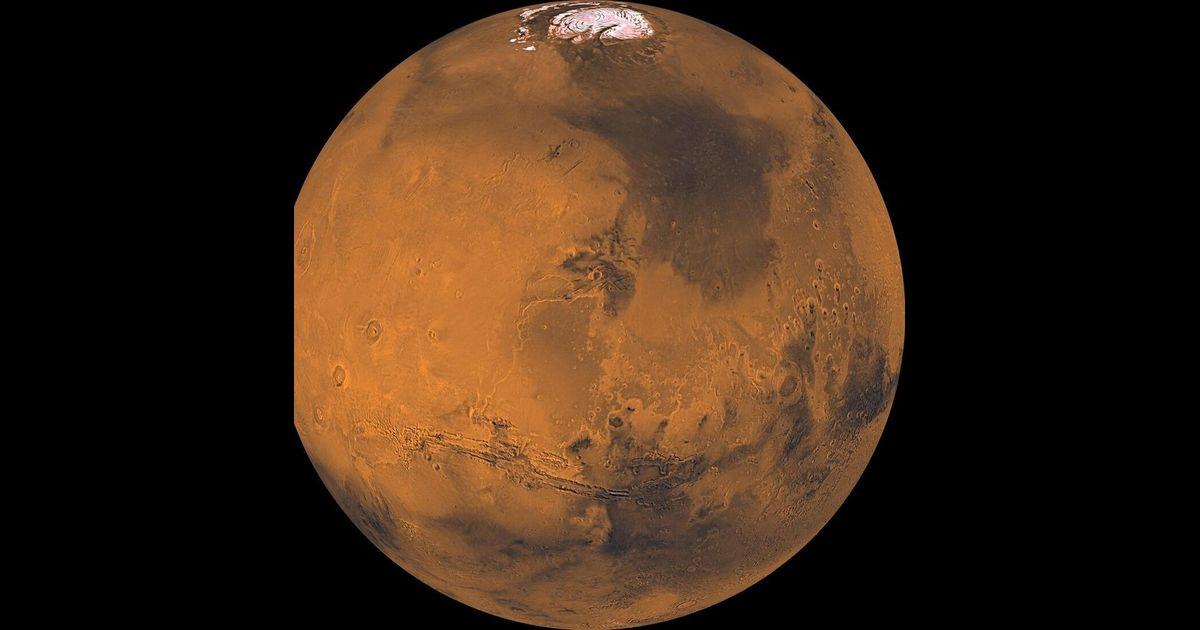
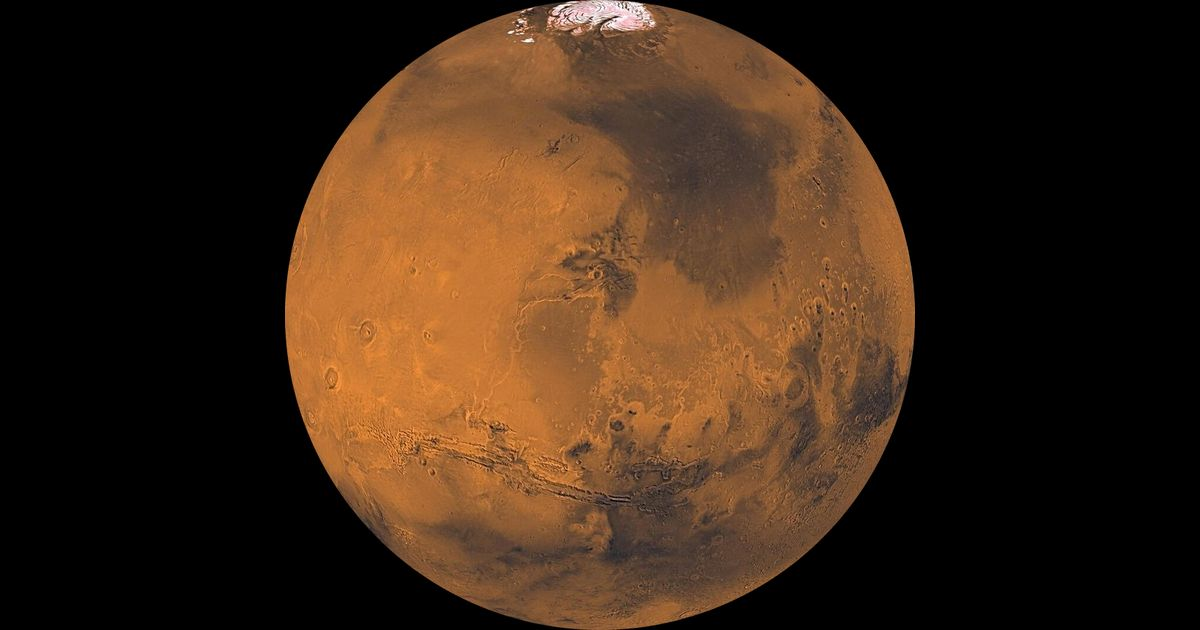
Fix fresh QA points: phone targets on /worlds, one dark time for Tonight and the sky map, Orion Nebula in search
- /worlds on phones: each name and moon line is 24 px tall, so every link meets the WCAG 2.2 target size
- Tonight on the homepage now uses the same moment of darkness as /sky, so the two give the same time
- /sky: Forget my place stays hidden when nothing is saved; (now) no longer wraps on its own
- /learn: scale labels alternate between two rows so they never run together
- Search finds the Orion Nebula; /explore/list gives it as roughly 1,300 light years
- Sitemap dates for the legal pages follow their text
- Mars share image: the globe is trimmed to a full circle instead of flat sides

Claude-Session: https://claude.ai/code/session_01Sn3b4ap1oktEvjC7ZUceLS

diff --git a/src/lib/sky/tonight.ts b/src/lib/sky/tonight.ts
@@ -1,8 +1,8 @@
 /**
  * "Tonight" for the home page: the Moon's phase and which planets can be seen by eye this evening,
  * worked out with the same sums as the sky map (place.ts, moon.ts), so the two always agree.
- * The evening is now if it is already dark, or else the first moment today when the Sun is 6 degrees
- * below the horizon (civil dusk, when the brightest planets show).
+ * The evening is now if it is already dark (the Sun 9 degrees or more below the horizon), or else the first
+ * moment the Sun is 12 degrees below it: the moment the sky map opens at, so the two give the same time.
  */
 import { moment, toSky, sunFromEarth, planetFromEarth, moonSky, PLANETS } from './place';
 import { moonPlace } from './moon';
@@ -33,11 +33,11 @@ export function phaseName(lit: number, waxing: boolean): string {
 export function tonight(date: Date, latDeg: number, lonDeg: number): Tonight {
   const sunAlt = (d: Date) => { const m = moment(d, latDeg, lonDeg); return toSky(sunFromEarth(m.T), m).altDeg; };
   let at = date, now = true, noDark = false;
-  if (sunAlt(date) > -6) {
+  if (sunAlt(date) >= -9) {
     now = false; noDark = true;
-    for (let mins = 10; mins <= 24 * 60; mins += 10) {
+    for (let mins = 5; mins <= 24 * 60; mins += 5) {
       const d = new Date(date.getTime() + mins * 60000);
-      if (sunAlt(d) <= -6) { at = d; noDark = false; break; }
+      if (sunAlt(d) < -12) { at = d; noDark = false; break; }
     }
     if (noDark) at = date;
   }
@@ -51,7 +51,7 @@ export function tonight(date: Date, latDeg: number, lonDeg: number): Tonight {
   const moonAlt = (d: Date) => moonSky(moment(d, latDeg, lonDeg)).altDeg;
   const cross = (up: boolean): Date | null => {
     let prev = moonAlt(at);
-    for (let mins = 10; mins <= 24 * 60; mins += 10) {
+    for (let mins = 5; mins <= 24 * 60; mins += 5) {
       const d = new Date(at.getTime() + mins * 60000), a = moonAlt(d);
       if (up ? prev <= 0 && a > 0 : prev > 0 && a <= 0) {
         for (let back = 9; back >= 0; back--) { const e = new Date(d.getTime() - back * 60000); const b = moonAlt(e); if (up ? b > 0 : b <= 0) return e; }

diff --git a/src/lib/search.test.ts b/src/lib/search.test.ts
@@ -22,6 +22,7 @@ for (const [typed, want] of [['proxima centuri', 'Proxima'], ['ursa magor', 'Urs
   test(`typo "${typed}" finds ${want}`, () => assert.ok(top(typed, 4).some((n) => n.toLowerCase().includes(want.toLowerCase())), `got ${top(typed, 4).join(', ')}`));
 for (const q of ['alpha centauri', 'α centauri', 'rigil kentaurus']) test(`"${q}" finds the star Rigil Kentaurus in the first three`, () => assert.ok(top(q, 3).includes('Rigil Kentaurus'), `got ${top(q, 3).join(', ')}`));
 test('"orbit" puts the glossary word first', () => assert.equal(top('orbit', 1)[0], 'Orbit'));
+test('"orion nebula" finds the nebula, not only the constellation', () => assert.ok(top('orion nebula', 3).includes('Orion Nebula')));
 for (const q of ['europa', 'mars', 'uranus', 'nebula', 'eclipse']) test(`"${q}" gets no guessed neighbours`, () => {
   // a lesson or glossary entry may be offered because its hidden text (the questions it answers, its summary) holds the word; that is not a guess
   const stray = rank(all, q, 8).filter((e) => !e[0].toLowerCase().includes(q) && !(e[3] ?? '').toLowerCase().includes(q) && !(e[4] ?? '').toLowerCase().includes(q));

diff --git a/src/pages/search.json.ts b/src/pages/search.json.ts
@@ -47,6 +47,8 @@ export const GET: APIRoute = async () => {
     const also = [...new Set([s.catalogue, plain])].filter((x) => x && x !== s.name).concat([s.hip ? `HIP ${s.hip}` : '', s.hd ? `HD ${s.hd}` : '']).filter(Boolean).join(' ');
     out.push([s.name, s.proper ? 'Star' : 'Star (catalogue)', `/stars/${s.slug}`, also || undefined, undefined, goStar(s.index)]);
   }
+  // The nebula the 3D view flies to. Its page is the lesson about star birth, which is about it.
+  out.push(['Orion Nebula', 'Nebula', '/learn/nebulae-and-star-birth', 'M42 Messier 42 great nebula', undefined, 'orion-nebula', 'nebulae-and-star-birth']);
   // The Atlas's landmarks: the Pleiades, the Magellanic Cloud, Andromeda, the Milky Way's black hole. Each opens its entry in the Atlas.
   const ALSO: Record<string, string> = {
     pleiades: 'Seven Sisters M45', andromeda: 'M31 Messier 31', m87: 'Messier 87 Virgo A', 'large-magellanic-cloud': 'LMC',

diff --git a/scripts/build-share-images.py b/scripts/build-share-images.py
@@ -10,7 +10,7 @@ Run from the repository root:  python3 scripts/build-share-images.py
 Writes public/img/share/*.jpg and src/data/share-images.json, and prints what it used and what it left out.
 """
 import glob, html, json, os, re, sys
-from PIL import Image
+from PIL import Image, ImageDraw
 
 ROOT = os.getcwd()
 OUT = 'public/img/share'
@@ -79,9 +79,19 @@ PLANETS['/mars'] = ('/img/bodies/mars.jpg', 'A rust-orange globe with dark marki
 PLANETS['/jupiter'] = ('/img/bodies/jupiter.jpg', 'A globe banded in cream, orange and rust, with the round Great Red Spot below the middle.', 'Credit: NASA, ESA, A. Simon (Goddard Space Flight Center) and M. H. Wong (University of California, Berkeley), CC BY 4.0.')
 pages.update(PLANETS)
 
+ROUND = {'/img/bodies/mars.jpg'}
+
 def make(src_path, dest):
     im = Image.open('public' + src_path).convert('RGB')
     w, h = im.size
+    if src_path in ROUND:
+        # this globe is a little wider than its picture, so its sides are cut flat; trim it to the circle the picture holds whole
+        d = min(w, h)
+        im = im.crop(((w - d) // 2, (h - d) // 2, (w - d) // 2 + d, (h - d) // 2 + d))
+        mask = Image.new('L', (d * 4, d * 4), 0)
+        ImageDraw.Draw(mask).ellipse((0, 0, d * 4 - 1, d * 4 - 1), fill=255)
+        im = Image.composite(im, Image.new('RGB', (d, d), (0, 0, 0)), mask.resize((d, d), Image.LANCZOS))
+        w, h = im.size
     # fill the frame if that needs little enlarging and loses less than a third of the picture; otherwise show it whole on the page's dark colour
     cover = max(W / w, H / h)
     kept = min(1.0, (W / cover) * (H / cover) / (w * h))
